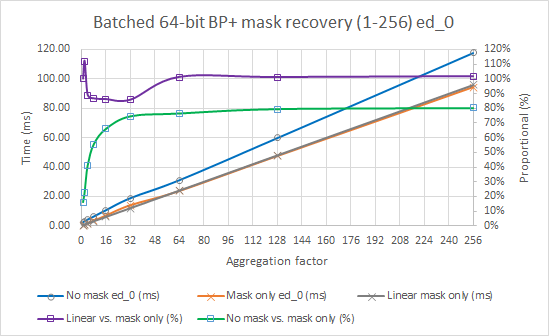
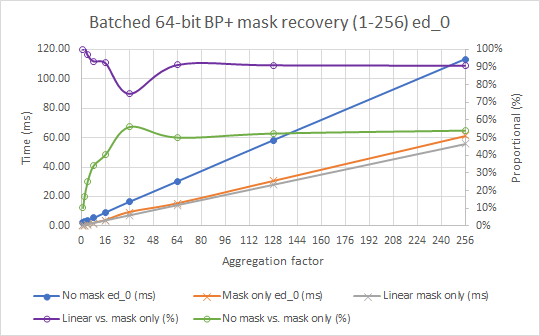
update benchmark results

diff --git a/README.md b/README.md
@@ -18,13 +18,14 @@ prover time; however, our 1% increase in verification time is on par with their 
 when employing batch verification; exponential gains range from 37% to 79% for batch sizes from 2 to 256 proofs.
 
 Extended commitments add virtually no overhead in single or aggregated range proof creation or verification time, 
-neither in batched verification time, nor when compared to regular Pedersen commitments.
+neither in batched verification time nor when compared to regular Pedersen commitments.
 
 Mask/blinding factor recovery adds moderate (5% for single proof-verification with extension degree zero) to significant 
 (22% for 256 single batched proofs verification with extension degree two) overhead to verification performance; 
 comparisons below were made without activating the recovery feature. Deactivating proof verification for a 
 "mask-recovery-only" mode of operation is possible and omits the expensive multi-exponentiation multiplication, 
-resulting in a strictly linear performance.
+resulting in linear performance (as opposed to exponential gains/cost). Batched "mask-recovery-only" is approximately 
+10% more costly on average when compared to non-batched recovery. 
 
 **Note:** The test results listed here are relative; the numbers are not absolute. The tests were run on an Intel(R) 
 Core(TM) i7-7820HQ CPU laptop without using the `simd_backend` feature.
@@ -127,19 +128,19 @@ Batched verification shows significant gains when compared to linear verificatio
 
 ### Batched 64-bit single range proof mask recovery
 
-Mask-recovery-only mode is linear and does not benefit from batched operations.
+Mask-recovery-only mode is linear and does not benefit from batched operations; batched recovery is suboptimal.
 
 | Batch size | No mask ed_0 (ms) | Mask only ed_0 (ms) | Linear mask only (ms) | Linear vs. mask only (%) | No mask vs. mask only (%) |
-|------------|-------------------|---------------------|-----------------------|--------------------------|---------------------------|
-| 1          | 2.36              | 0.38                | 0.38                  | 100.0%                   | 15.9%                     |
-| 2          | 2.94              | 0.67                | 0.75                  | 112.1%                   | 22.8%                     |
-| 4          | 4.11              | 1.69                | 1.50                  | 88.9%                    | 41.0%                     |
-| 8          | 6.24              | 3.46                | 3.00                  | 86.6%                    | 55.5%                     |
-| 16         | 10.55             | 6.97                | 6.00                  | 86.1%                    | 66.0%                     |
-| 32         | 18.77             | 14.00               | 12.00                 | 85.7%                    | 74.6%                     |
-| 64         | 31.01             | 23.72               | 24.01                 | 101.2%                   | 76.5%                     |
-| 128        | 59.76             | 47.50               | 48.02                 | 101.1%                   | 79.5%                     |
-| 256        | 117.79            | 94.43               | 96.03                 | 101.7%                   | 80.2%                     |
+| ---------- | ----------------- | ------------------- | --------------------- | ------------------------ | ------------------------- |
+| 1          | 2.10              | 0.22                | 0.22                  | 100.0%                   | 10.4%                     |
+| 2          | 2.59              | 0.43                | 0.44                  | 102.2%                   | 16.5%                     |
+| 4          | 3.59              | 0.90                | 0.87                  | 97.0%                    | 25.0%                     |
+| 8          | 5.46              | 1.87                | 1.74                  | 93.4%                    | 34.2%                     |
+| 16         | 9.31              | 3.78                | 3.49                  | 92.3%                    | 40.6%                     |
+| 32         | 16.54             | 9.31                | 6.97                  | 74.9%                    | 56.3%                     |
+| 64         | 30.39             | 15.27               | 13.95                 | 91.3%                    | 50.3%                     |
+| 128        | 58.25             | 30.60               | 27.90                 | 91.2%                    | 52.5%                     |
+| 256        | 113.18            | 61.36               | 55.80                 | 90.9%                    | 54.2%                     |
 
 <p align="center"><img src="./docs/assets/img_bp_plus_batched_masks.png" width="550" /></p>
 
@@ -158,7 +159,7 @@ Mask-recovery-only mode is linear and does not benefit from batched operations.
     [Bulletproofs](https://github.com/dalek-cryptography/bulletproofs), which in turn is built on top of Dalek's 
     [group operations on Ristretto and Curve25519](https://github.com/dalek-cryptography/curve25519-dalek).
 
-[5] Another pre-cursor to this work is 
+[5] Another precursor to this work is 
     [Monero's implementation](https://www.getmonero.org/2020/12/24/Bulletproofs+-in-Monero.html) of Bulletproofs+.
 
 ## Copyright
